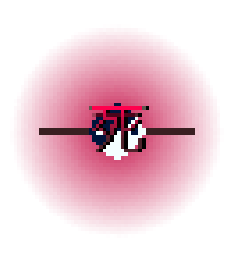
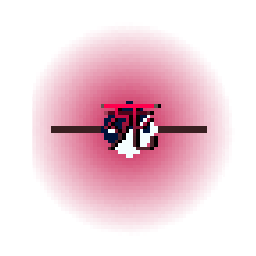
Added better centering of text and die screen

Changed region(s): [[0.0921, 0.3125, 0.9518, 0.75], [0.7675, 0.7812, 0.7982, 0.8125], [0.7368, 0.4062, 0.7675, 0.4375]]

diff --git a/sshi_core.py b/sshi_core.py
@@ -7,7 +7,7 @@ import pygame
 # from pygame.freetype import * # Errors led to this line, having to be here
 import math
 import os
-from itertools import repeat, cycle
+from itertools import repeat, cycle, count
 import random
 from operator import sub, add
 
@@ -15,7 +15,7 @@ from operator import sub, add
 import sshi_graphics as grph
 import sshi_msci as msci
 import sshi_score as sce
-import itertools
+import time
 from enum import IntEnum
 
 
@@ -56,11 +56,11 @@ class Initi:
             screenHigh = 4
             all = 5'''
             self.layers.add(Placeholder(), layer=num_of_layer)
-        print(self.layers.layers())
         self.board = sce.scoreboard()
         self.layers.add(self.ddger, self.sshi_group, layer=2)
         self.background = Background('background_res2.png')
         self.layers.add(self.background, layer=0)
+        self.d_move_value = 1.6
 
     def Level(self, lvl):
         self.lvl = lvl
@@ -81,15 +81,6 @@ class Placeholder(pygame.sprite.Sprite):
         self.image = pygame.Surface((256, 256), pygame.SRCALPHA)
         self.rect = self.image.get_rect()
         self.rect.topleft = (0, 0)
-
-
-class LayerN(IntEnum):
-    background = 0
-    screenLow = 1
-    sprites = 2
-    screenEffects = 3
-    screenHigh = 4
-    all = 5
 
 
 #                               ,,
@@ -119,19 +110,20 @@ class Dodger(pygame.sprite.Sprite):
         self.dirncy = 0
 
     def update(self):
+        global i
         keys = pygame.key.get_pressed()
         for key in keys:
             if keys[pygame.K_LEFT]:
-                self.dirnx = -1.5
+                self.dirnx = -(i.d_move_value)
             elif keys[pygame.K_RIGHT]:
-                self.dirnx = 1.5
+                self.dirnx = i.d_move_value
             else:
                 self.dirnx = 0
 
             if keys[pygame.K_UP]:
-                self.dirny = -1.5
+                self.dirny = -(i.d_move_value)
             elif keys[pygame.K_DOWN]:
-                self.dirny = 1.5
+                self.dirny = i.d_move_value
             else:
                 self.dirny = 0
 
@@ -312,34 +304,6 @@ def main():
 # .JML. `'  .JMML..JMML.M9mmmP'  YMbmd'
 
 
-# class GI(grph.add):
-#     '''Stands for Graphics Interface, inherits from a grph function'''
-#     GRvalues = []
-#
-#     def __init__(self, *args, **kwargs):
-#         super().__init__(*args, **kwargs)
-#         # This directally passes all variables to grph.add.__init__
-#
-#     def kill(self):
-#         super().kill()
-#
-#     def nongroup(func, *args, **kwargs):
-#         f = func(*args, **kwargs)
-#         GI.GRvalues.append(f)
-#
-#     @staticmethod
-#     def draw(flag, screen=None):
-#         screen = grph.add.update(flag)
-#         return screen
-#
-#     @staticmethod
-#     def NGupdate(flag, screen, *args, **kwargs):
-#         for v in GI.GRvalues:
-#             a = v(screen, *args, **kwargs)
-#             screen.blit(a, [0, 0])
-#         return screen
-
-
 def minmax(a, b, c):
     '''This function returns the middle variable between the min variable
     and the max variable.'''
@@ -353,35 +317,36 @@ class die_screen():
                                                                 3, 2, 1]]
         self.Ppos = cycle(zip(repeat(i.ddger.pos[0]),
                               self.YPpos))
-        self.GrLength = Lgenerator(64)
-        self.GrTransparency = Tgenerator(64)
         # The expression above zips together the x coordinate of ddger
         # This x coordinate is repeated, so it just keeps on
         # yelling the same value,  while the Y pos is from the
         # addition mapping above that takes in the y pos, and maps 0,1,2 ...
         # To it.
         self.group = pygame.sprite.Group()
-        i.layers.remove(i.background)
-        i.background = Background("defeat_screenV2.png")
-        i.layers.add(i.background, layer=0)
+        Background.change_i('defeat_screenV2.png')
+        self.ripple = grph.ripple()
+        self.group.add(self.ripple)
+        i.layers.add(self.ripple, layer=1)
+        self.time = time.time()
+        i.layers.remove_sprites_of_layer(2)
+        print(i.sshi_group)
+        self.fade = count(0, 5)
+        self.menu_screen = Background('defeat_screenV3.png')
+        self.menu_screen.set_alpha(0)
+        i.layers.add(self.menu_screen, layer=2)
 
     def __call__(self):
         global i
-        # GI('screenHigh', grph.Transition, "defeat_screenV2.png", i.score)
-        # GI('all', grph.Prtcl, next(self.Ppos), "dodger_helment.png")
-        # # GI('all', grph.scoreboard, (8, 8), i)
-        # T = next(self.GrTransparency)
-        # L = next(self.GrLength)
-        # if L == 'x':
-        #     self.GrLength = Lgenerator(64)
-        #     self.GrTransparency = Tgenerator(64)
-        #     T = next(self.GrTransparency)
-        #     L = next(self.GrLength)
-        # GI('screenHigh', grph.ripple, L, T)
-        # GI.nongroup(grph.Blur, 0.25)
+        if round(time.time() - self.time) >= 3:
+            self.temp_menu_screen = pygame.image.load(os.path.join("Assets/", 'defeat_screenV3.png'))
+            new_xy = grph.word_wrap(self.temp_menu_screen, str(i.score), pygame.freetype.Font(os.path.join("Assets/", '8-bit Arcade In.ttf'), 96), xy=['center', 128], colour=(46, 34, 47))
+            grph.word_wrap(self.temp_menu_screen, str(i.score), pygame.freetype.Font(os.path.join("Assets/", '8-bit Arcade Out.ttf'), 96), xy=new_xy, colour=(255, 130, 77))
+            self.menu_screen.change_i(self.temp_menu_screen, max(next(self.fade), 255))
+        self.ripple.update()
         if pygame.key.get_pressed()[pygame.K_x]:
             # Change to incorporate the movement of the helment
             i = Initi(i.lvl)
+            self.kill()
 
     def kill(self):
         for sprite in self.group:
@@ -389,15 +354,31 @@ class die_screen():
 
 
 class Background(pygame.sprite.Sprite):
-    def __init__(self, imge):
+    def __init__(self, image, alpha=255):
         super().__init__()
-        self.image = pygame.image.load(os.path.join('Assets', imge))
+        if type(image) is str:
+            self.image = pygame.image.load(os.path.join('Assets', image))
+
+        else:
+            self.image = image
         self.rect = self.image.get_rect()
         self.rect.topleft = (0, 0)
-    
-    def draw(self, surface):
+
+    def draw(self, surface, alpha=255):
        surface.blit(self.image, (0, 0))
 
+    def blit(self, surface):
+        self.image.blit(surface, (0, 0))
+
+    def set_alpha(self, alpha):
+        self.image.set_alpha(alpha)
+        print(alpha)
+    
+    @classmethod
+    def change_i(cls, image, l=0, a=255):
+        i.layers.remove(i.background)
+        i.background = cls(image, a)
+        i.layers.add(i.background, layer=l)
 
 
 # class win_screen():
@@ -409,7 +390,7 @@ def events():
         if event.type == pygame.QUIT:
             pygame.quit()
             exit()
-        if event.type == pygame.K_F11:
+        if event.type == pygame.KEYDOWN and event.key == pygame.K_F11:
             pygame.display.toggle_fullscreen()
             print(event)
 
@@ -435,19 +416,6 @@ def sr():
     '''This randomly returns a positive or negative 1'''
     return random.randrange(-1, 2, 2)
 
-
-def Lgenerator(length):
-    for i in range(length):
-        yield (128 // length) * i
-    while True:
-        yield 'x'
-
-
-def Tgenerator(length):
-    for i in range(length):
-        yield (255 // length) * (length - i)
-    while True:
-        yield 'x'
 
 
 #                               ,,

diff --git a/sshi_graphics.py b/sshi_graphics.py
@@ -4,48 +4,18 @@ import sshi_msci as msci
 import numpy as np
 import os
 from pygame.freetype import Font
-from itertools import repeat
 from PIL import Image, ImageFilter
-import random
-import sshi_score as sce
-from abc import ABC
+from abc import ABC, abstractmethod
 
 
 class G(ABC):
+    @abstractmethod
     def __init__(self):
         pass
 
+    @abstractmethod
     def update(self):
         pass
-#
-# class Flag:
-#     def __init__(self, flag_name):
-#         self.flag = pygame.sprite.Group()
-#
-#     def add(self, to_add):
-#         self.flag.add(to_add)
-#
-#     def remove(self, to_remove):
-#         self.flag.remove(to_remove)
-
-
-
-
-# class Leaf(pygame.sprite.Sprite):
-#     shapes = [[[1, 0],
-#                [1, 1]],
-#               [[1, 1],
-#                [1, 0]],
-#               [[1, 1],
-#                [0, 1]],
-#               [[0, 1],
-#                [1, 1]]]
-#
-#     def __init__(self, pos):
-#         self.pos = pos
-#         self.ranSH = random.randint(0, 5)
-#         for x in Leaf.shapes
-#     def
 
 
 class Blur:
@@ -128,15 +98,43 @@ class Transition(pygame.sprite.Sprite, G):
         return 'Transition Class'
 
 
-def word_wrap(surf, text, font, colour=(255, 255, 255), xy=(0, 0)):
+def word_wrap(surf, text, font, colour=(255, 255, 255), xy=[0, 0]):
     font.origin = True
     words = text.split(' ')
     width, height = surf.get_size()
-    if xy == 'center':
-        rect_b = font.get_rect(text)
+    txt_bounds = font.get_rect(text)
+    if xy[0] == 'center':
+        xy[0] = 0
+        xy[0] = width // 2 - txt_bounds.width // 2 
+    elif xy[1] == 'center':
+        xy[1] = 0
+        xy[1] = height // 2 - txt_bounds.height // 2 
+        print(height, txt_bounds.height, height // 2 - txt_bounds.height // 2) 
+    elif xy == 'center':
         xy = [0, 0]
-        xy[0] = (width - rect_b.width) // 2
-        xy[1] = int((height + font.get_sized_height() - rect_b.height) / 2)
+        xy[0] = width // 2 - txt_bounds.width // 2
+        xy[1] = height // 2 - txt_bounds.height // 2
+        print(height, txt_bounds.height, height // 2 - txt_bounds.height // 2) 
+    # match xy:
+    #         case [x,y]:
+    #             return [x, y]
+            
+    #         case ['center', y]:
+    #             xy[0] = 0
+    #             xy[0] = width // 2 - txt_bounds.width // 2
+    #             return [x, y]
+            
+    #         case [x, 'center']:
+    #             xy[1] = 0
+    #             xy[1] = height // 2 - (txt_bounds.height // 2)
+    #             return [x, y]
+
+    #         case 'center':
+    #             xy = [0, 0]
+    #             xy[0] = width // 2 - txt_bounds.width // 2
+    #             xy[1] = height // 2 - (txt_bounds.height // 2)
+    #             return [x, y]
+    
     line_spacing = font.get_sized_height() + 2
     x, y = 0 + xy[0], line_spacing - 14 + xy[1]
     space = font.get_rect(' ')
@@ -150,7 +148,7 @@ def word_wrap(surf, text, font, colour=(255, 255, 255), xy=(0, 0)):
             raise ValueError("text to long for the surface")
         font.render_to(surf, (x, y), None, colour)
         x += bounds.width + space.width
-    return x, y
+    return xy
 
 
 class scoreboard(pygame.sprite.Sprite, G):
@@ -169,16 +167,27 @@ class scoreboard(pygame.sprite.Sprite, G):
 
 
 class ripple(pygame.sprite.Sprite, G):
-    def __init__(self, Glength, Gtransparency):
+    def __init__(self):
+        self.transparency = self.Transparency(64)
+        self.length = self.Length(64)
         super().__init__()
         self.image = pygame.Surface((256, 256), pygame.SRCALPHA)
-        pygame.draw.circle(self.image, (77, 101, 180, Gtransparency), (128, 128), Glength, width=2)
         self.rect = self.image.get_rect()
         self.rect.topleft = (0, 0)
 
+    def Transparency(self, length):
+        while True:
+            for i in range(length):
+                yield (255 // length) * (length - i)
 
-if __name__ == '__main__':
-    Flag.create('screenHigh')
-    Flag.create('screenLow')
-    Flag.create('screenEffects')
-    Flag.create('all')
+    def Length(self, length):
+        while True:
+            for i in range(length):
+                yield (128 // length) * i
+
+    def update(self):
+        self.image = pygame.Surface((256, 256), pygame.SRCALPHA)
+        pygame.draw.circle(self.image, (77, 101, 180,
+                                        next(self.transparency)), (128, 128),
+                           next(self.length), width=2)
+

diff --git a/sshi_base.py b/sshi_base.py
@@ -76,6 +76,11 @@ class M_credits(M_page):
         return t_screen
 
 
+class M_settings(M_page):
+    def __init__(self):
+        pass
+
+
 class Button(pygame.sprite.Sprite):
     def __init__(self, xy, wh, colour, txt, action, font=None):
         super().__init__()
